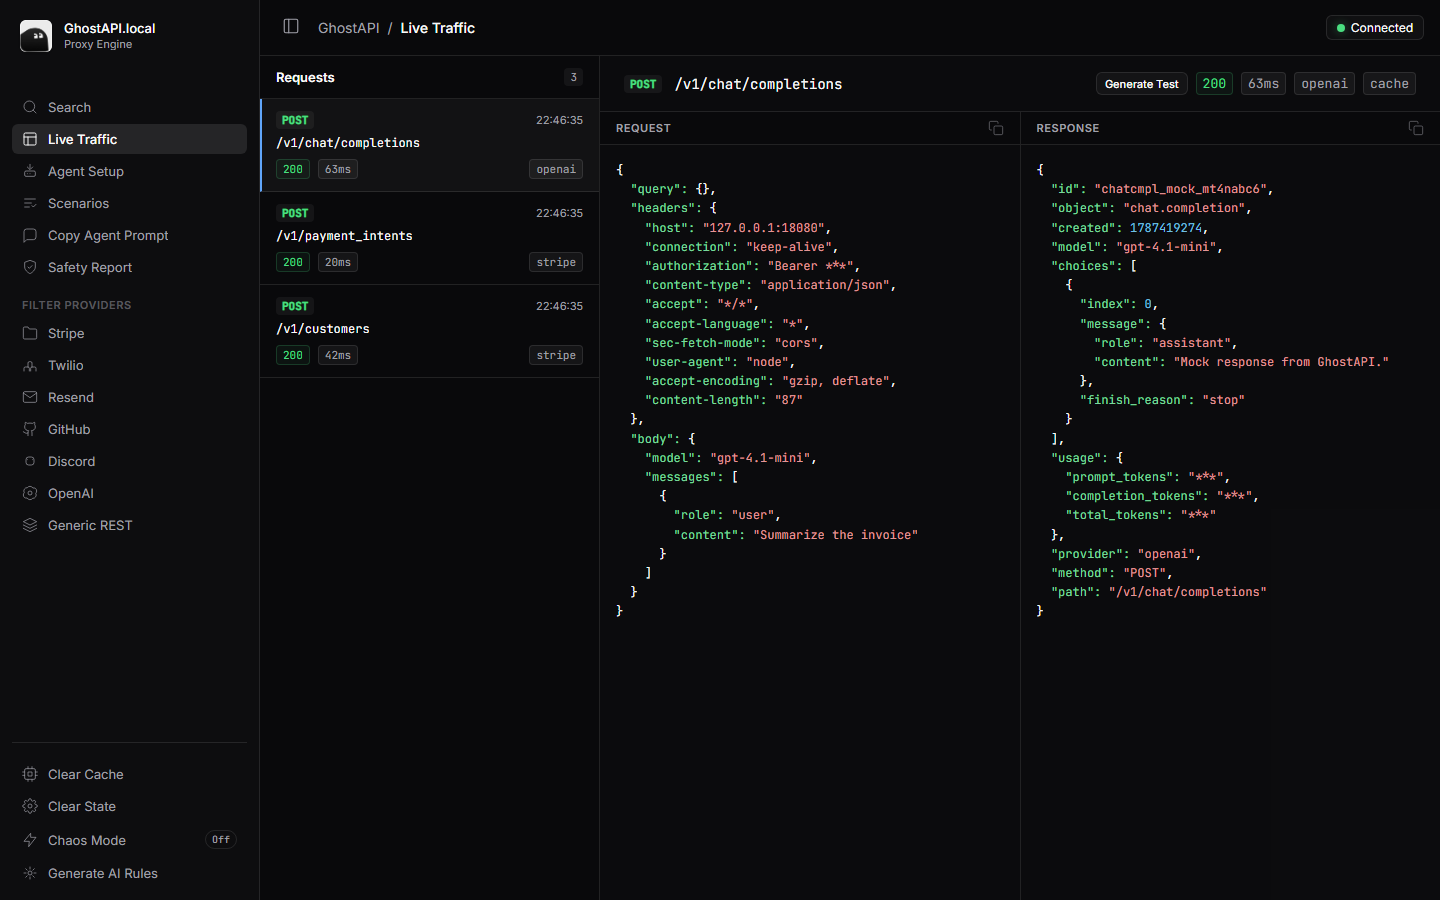
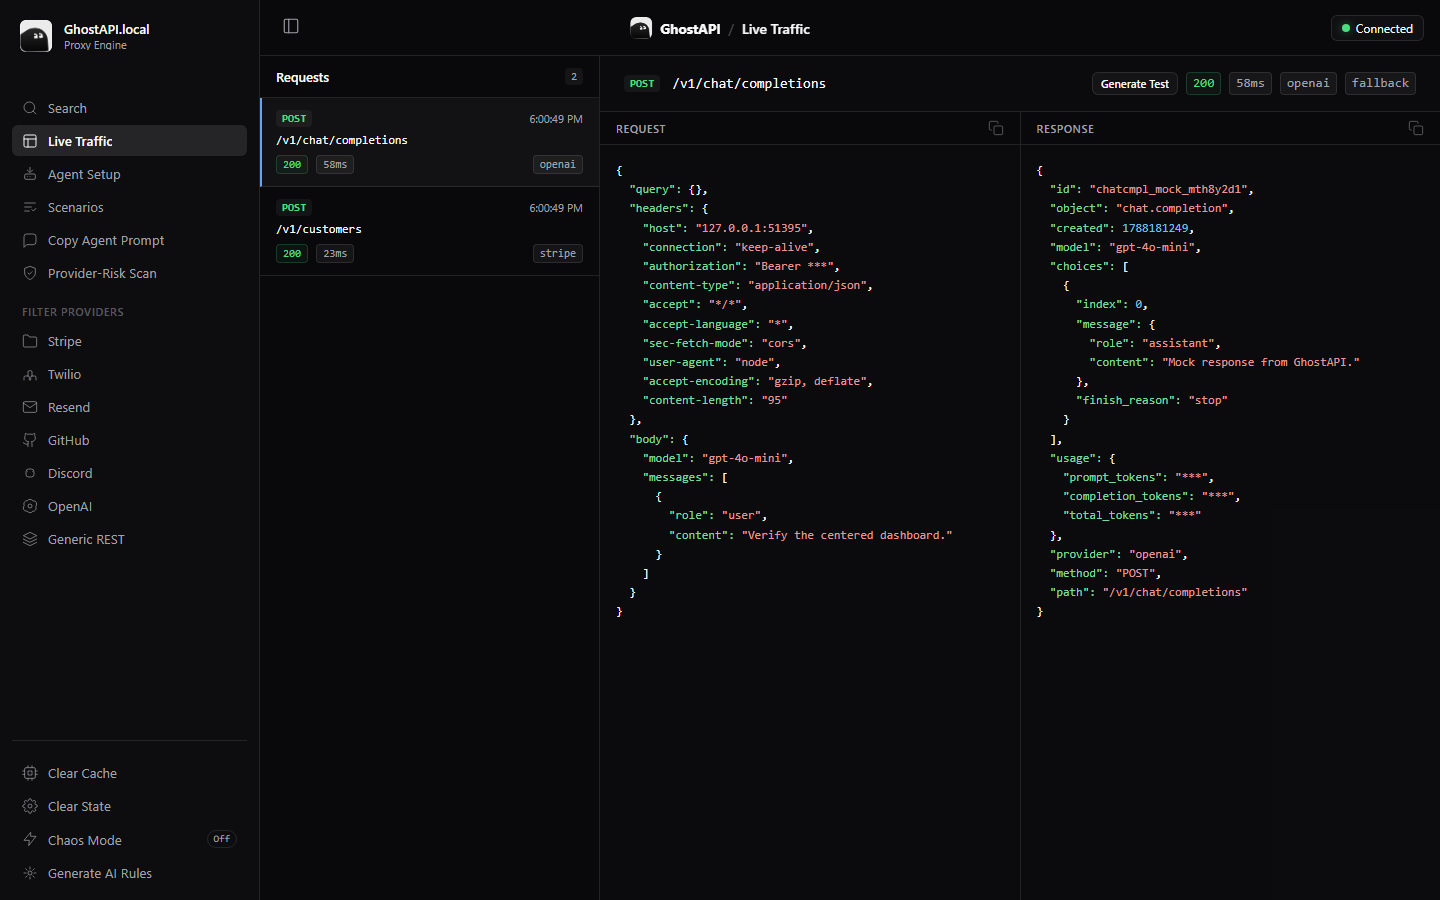
Center and polish the responsive dashboard
Center the README hero and dashboard brand, add responsive mobile navigation and request/detail panes, refresh the real dashboard screenshot, and add layout regression coverage.

Assisted-by: OpenCode

diff --git a/src/dashboard/styles.css b/src/dashboard/styles.css
@@ -76,6 +76,15 @@ body {
   opacity: 0;
   border-right: none;
 }
+.sidebar-backdrop {
+  display: none;
+  position: fixed;
+  inset: 0;
+  z-index: 30;
+  border: 0;
+  background: rgba(0, 0, 0, 0.58);
+  backdrop-filter: blur(2px);
+}
 
 /* Workspace Switcher */
 .ws-switcher {
@@ -292,9 +301,9 @@ body {
 .topbar {
   height: 56px;
   border-bottom: 1px solid var(--border);
-  display: flex;
+  display: grid;
+  grid-template-columns: minmax(44px, 1fr) auto minmax(44px, 1fr);
   align-items: center;
-  justify-content: space-between;
   padding: 0 16px;
   background: var(--card);
   flex-shrink: 0;
@@ -303,6 +312,8 @@ body {
   display: flex;
   align-items: center;
   gap: 12px;
+  grid-column: 1;
+  justify-self: start;
 }
 .toggle-btn {
   padding: 6px;
@@ -326,6 +337,35 @@ body {
   font-size: 14px;
   color: var(--muted-foreground);
 }
+.topbar-center {
+  position: fixed;
+  top: 0;
+  left: 50%;
+  z-index: 5;
+  height: 56px;
+  transform: translateX(-50%);
+  min-width: 0;
+}
+.brand-lockup {
+  display: inline-flex;
+  align-items: center;
+  gap: 8px;
+  color: var(--foreground);
+}
+.brand-lockup strong {
+  font-size: 14px;
+  font-weight: 650;
+  letter-spacing: -0.01em;
+}
+.topbar-brand-icon {
+  width: 22px;
+  height: 22px;
+  border-radius: 6px;
+  object-fit: cover;
+}
+.breadcrumb-divider {
+  color: rgba(161, 161, 170, 0.42);
+}
 .breadcrumb-active {
   font-weight: 500;
   color: var(--foreground);
@@ -335,6 +375,8 @@ body {
   display: flex;
   align-items: center;
   gap: 12px;
+  grid-column: 3;
+  justify-self: end;
 }
 .status-indicator {
   display: flex;
@@ -817,6 +859,129 @@ body {
     border-right: none;
     border-bottom: 1px solid var(--border);
     max-height: none;
+  }
+}
+
+@media (max-width: 760px) {
+  .sidebar {
+    position: fixed;
+    inset: 0 auto 0 0;
+    z-index: 40;
+    width: min(84vw, 300px);
+    transform: translateX(-100%);
+    opacity: 0;
+    pointer-events: none;
+    border-right: 1px solid rgba(255, 255, 255, 0.14);
+    background: #0d0d10;
+    box-shadow: 24px 0 64px rgba(0, 0, 0, 0.42);
+    transition:
+      transform 0.22s ease,
+      opacity 0.22s ease;
+  }
+  .sidebar.closed {
+    width: min(84vw, 300px);
+    padding: 12px;
+    opacity: 0;
+    border-right: 1px solid rgba(255, 255, 255, 0.14);
+  }
+  .sidebar.mobile-open {
+    transform: translateX(0);
+    opacity: 1;
+    pointer-events: auto;
+  }
+  .sidebar-backdrop.open {
+    display: block;
+  }
+  .topbar {
+    height: 52px;
+    padding: 0 12px;
+    grid-template-columns: 36px minmax(0, 1fr) 36px;
+  }
+  .topbar-center {
+    height: 52px;
+    max-width: 100%;
+    gap: 6px;
+  }
+  .breadcrumb-active {
+    max-width: 32vw;
+    overflow: hidden;
+    text-overflow: ellipsis;
+    white-space: nowrap;
+  }
+  .status-indicator {
+    padding: 5px;
+    border-radius: 50%;
+  }
+  #status-text {
+    display: none;
+  }
+  .content-wrapper {
+    flex-direction: column;
+  }
+  .event-list-pane {
+    width: 100%;
+    height: 42%;
+    min-height: 210px;
+    border-right: none;
+    border-bottom: 1px solid var(--border);
+  }
+  .details-pane {
+    min-height: 0;
+  }
+  .dep-header {
+    align-items: flex-start;
+    flex-direction: column;
+    gap: 12px;
+    padding: 12px 16px;
+  }
+  .dep-title {
+    width: 100%;
+    overflow: hidden;
+  }
+  .dep-title > span:last-child {
+    overflow: hidden;
+    text-overflow: ellipsis;
+    white-space: nowrap;
+  }
+  .dep-badges {
+    width: 100%;
+    flex-wrap: wrap;
+  }
+  .json-split {
+    flex-direction: column;
+    overflow: auto;
+  }
+  .json-pane {
+    min-height: 230px;
+    border-right: none;
+    border-bottom: 1px solid var(--border);
+  }
+  .json-pane:last-child {
+    border-bottom: none;
+  }
+  .rules-modal-header {
+    flex-wrap: wrap;
+  }
+}
+
+@media (max-width: 420px) {
+  .brand-lockup strong {
+    font-size: 13px;
+  }
+  .topbar-brand-icon {
+    width: 19px;
+    height: 19px;
+  }
+  .breadcrumb-divider,
+  .breadcrumb-active {
+    font-size: 12px;
+  }
+  .event-list-pane {
+    height: 46%;
+    min-height: 190px;
+  }
+  .event-card {
+    padding: 10px 12px;
   }
 }
 

diff --git a/src/dashboard/index.html b/src/dashboard/index.html
@@ -400,12 +400,25 @@
         </div>
       </aside>
 
+      <button
+        class="sidebar-backdrop"
+        id="sidebar-backdrop"
+        type="button"
+        aria-label="Close navigation"
+      ></button>
+
       <!-- Main Content Structure -->
       <main class="main">
         <!-- Topbar -->
         <header class="topbar">
           <div class="topbar-left">
-            <button class="toggle-btn" id="sidebar-toggle">
+            <button
+              class="toggle-btn"
+              id="sidebar-toggle"
+              type="button"
+              aria-label="Toggle navigation"
+              title="Toggle navigation"
+            >
               <svg
                 viewBox="0 0 24 24"
                 width="18"
@@ -420,11 +433,18 @@
                 <line x1="9" y1="3" x2="9" y2="21"></line>
               </svg>
             </button>
-            <div class="breadcrumb">
-              <span>GhostAPI</span>
-              <span>/</span>
-              <span class="breadcrumb-active">Live Traffic</span>
-            </div>
+          </div>
+          <div class="breadcrumb topbar-center" aria-label="Current view">
+            <span class="brand-lockup">
+              <img
+                class="topbar-brand-icon"
+                src="/docs/assets/ghostapi-avatar.png"
+                alt=""
+              />
+              <strong>GhostAPI</strong>
+            </span>
+            <span class="breadcrumb-divider">/</span>
+            <span class="breadcrumb-active">Live Traffic</span>
           </div>
           <div class="topbar-right">
             <div class="status-indicator connected" id="status-indicator">

diff --git a/src/dashboard/app.js b/src/dashboard/app.js
@@ -1,6 +1,7 @@
 // DOM References
 const els = {
   sidebar: document.getElementById("sidebar"),
+  sidebarBackdrop: document.getElementById("sidebar-backdrop"),
   toggleBtn: document.getElementById("sidebar-toggle"),
   statusIndicator: document.getElementById("status-indicator"),
   statusText: document.getElementById("status-text"),
@@ -82,7 +83,25 @@ async function fetchProviderManifests() {
 
 // Side-effects & Listeners
 function setupInteractions() {
-  els.toggleBtn.onclick = () => els.sidebar.classList.toggle("closed");
+  els.toggleBtn.onclick = () => {
+    if (window.matchMedia("(max-width: 760px)").matches) {
+      const open = els.sidebar.classList.toggle("mobile-open");
+      els.sidebarBackdrop.classList.toggle("open", open);
+      return;
+    }
+    els.sidebar.classList.toggle("closed");
+  };
+  els.sidebarBackdrop.onclick = closeMobileSidebar;
+  els.sidebar.addEventListener("click", (event) => {
+    if (event.target.closest(".nav-item")) closeMobileSidebar();
+  });
+  window.addEventListener("resize", () => {
+    if (window.matchMedia("(max-width: 760px)").matches) {
+      els.sidebar.classList.remove("closed");
+      return;
+    }
+    closeMobileSidebar();
+  });
 
   // Command + K
   document.addEventListener("keydown", (e) => {
@@ -183,7 +202,13 @@ window.setFilter = (filter) => {
   }
 
   renderList();
+  closeMobileSidebar();
 };
+
+function closeMobileSidebar() {
+  els.sidebar.classList.remove("mobile-open");
+  els.sidebarBackdrop.classList.remove("open");
+}
 
 window.clearStorage = async (target, event) => {
   try {

diff --git a/test/dashboardAssets.test.ts b/test/dashboardAssets.test.ts
@@ -19,6 +19,7 @@ describe("dashboard assets", () => {
     expect(app).toContain("els.eventCount.textContent = list.length");
     expect(app).toContain('scenarioButton("Arm"');
     expect(app).not.toContain('scenarioButton("Replay"');
+    expect(app).toContain("closeMobileSidebar");
   });
 
   it("does not load dashboard assets from external origins", async () => {
@@ -33,5 +34,24 @@ describe("dashboard assets", () => {
       expect(content).not.toMatch(/url\(\s*["']?https?:\/\//i);
       expect(content).not.toContain("@import url(");
     }
+  });
+
+  it("keeps the product identity centered and provides a mobile layout", async () => {
+    const [html, styles, readme] = await Promise.all([
+      readFile("src/dashboard/index.html", "utf8"),
+      readFile("src/dashboard/styles.css", "utf8"),
+      readFile("README.md", "utf8"),
+    ]);
+
+    expect(html).toContain('class="breadcrumb topbar-center"');
+    expect(html).toContain('id="sidebar-backdrop"');
+    expect(styles).toContain("grid-template-columns: minmax(44px, 1fr) auto");
+    expect(styles).toContain("grid-column: 3");
+    expect(styles).toContain("transform: translateX(-50%)");
+    expect(styles).toContain("@media (max-width: 760px)");
+    expect(styles).toContain(".sidebar.mobile-open");
+    expect(styles).toContain("flex-direction: column");
+    expect(readme).toContain('<div align="center">');
+    expect(readme).toContain('<a href="#quickstart">Quickstart</a>');
   });
 });

diff --git a/README.md b/README.md
@@ -1,24 +1,24 @@
-# GhostAPI
-
-**Local API simulation and test evidence for AI-assisted development.**
-
-GhostAPI gives applications and coding agents a local target for selected Stripe, Resend, OpenAI, Twilio, GitHub, Discord, and generic REST workflows. It records heuristically sanitized traffic, injects deterministic failures, exposes MCP controls, and turns captured behavior into repeatable tests.
-
-On supported Linux hosts, `ghostapi run` can execute a test command inside a loopback-only network namespace. It is not a hostile-code or filesystem sandbox.
-
-<p align="center">
+<div align="center">
+  <img src="docs/assets/ghostapi-avatar.png" alt="GhostAPI logo" width="88" height="88">
+  <h1>GhostAPI</h1>
+  <p><strong>Local API simulation and test evidence for AI-assisted development.</strong></p>
+  <p>GhostAPI gives applications and coding agents a local target for selected Stripe, Resend, OpenAI, Twilio, GitHub, Discord, and generic REST workflows. It records heuristically sanitized traffic, injects deterministic failures, exposes MCP controls, and turns captured behavior into repeatable tests.</p>
+  <p>On supported Linux hosts, <code>ghostapi run</code> can execute a test command inside a loopback-only network namespace. It is not a hostile-code or filesystem sandbox.</p>
+  <p>
   <a href="https://www.npmjs.com/package/@yiaany/ghostapi"><img alt="npm" src="https://img.shields.io/npm/v/@yiaany/ghostapi?color=0f172a&label=npm"></a>
   <a href="https://github.com/yiaany/ghostapi/blob/main/LICENSE"><img alt="license" src="https://img.shields.io/badge/license-MIT-0f172a"></a>
   <a href="https://github.com/yiaany/ghostapi/actions/workflows/ci.yml"><img alt="ci" src="https://github.com/yiaany/ghostapi/actions/workflows/ci.yml/badge.svg"></a>
   <img alt="node" src="https://img.shields.io/badge/node-%3E%3D20-0f172a">
   <img alt="MCP" src="https://img.shields.io/badge/MCP-enabled-0f172a">
-</p>
-
-[Quickstart](#quickstart) · [Security model](SECURITY.md) · [Provider coverage](docs/providers/) · [Release evidence](docs/releases/)
-
-```bash
-npx @yiaany/ghostapi start --open
-```
+  </p>
+  <p>
+    <a href="#quickstart">Quickstart</a> ·
+    <a href="SECURITY.md">Security model</a> ·
+    <a href="docs/providers/">Provider coverage</a> ·
+    <a href="docs/releases/">Release evidence</a>
+  </p>
+  <p><code>npx @yiaany/ghostapi start --open</code></p>
+</div>
 
 <p align="center">
   <img src="docs/assets/dashboard.png" alt="GhostAPI dashboard with live local Stripe, OpenAI, and REST traffic">

diff --git a/CHANGELOG.md b/CHANGELOG.md
@@ -20,6 +20,7 @@ The format follows the spirit of [Keep a Changelog](https://keepachangelog.com/e
 - Added project provenance, contribution authorship guidance, full-tree formatting, and type-aware ESLint parsing.
 - Removed fundraising, commercial, design-partner, community-operations, and enterprise-roadmap material from the public tree and npm package.
 - Added a release workflow for signed annotated tags, exact-tarball smoke testing, checksums, SBOM generation, build attestations, npm provenance, and post-publish `gitHead` verification.
+- Centered the README hero and dashboard product identity, and added responsive navigation and request/detail layouts for mobile screens.
 
 ## 0.1.8 - 2026-08-22
 
